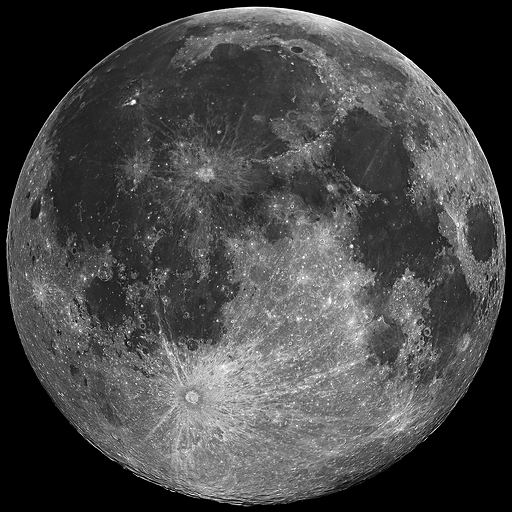
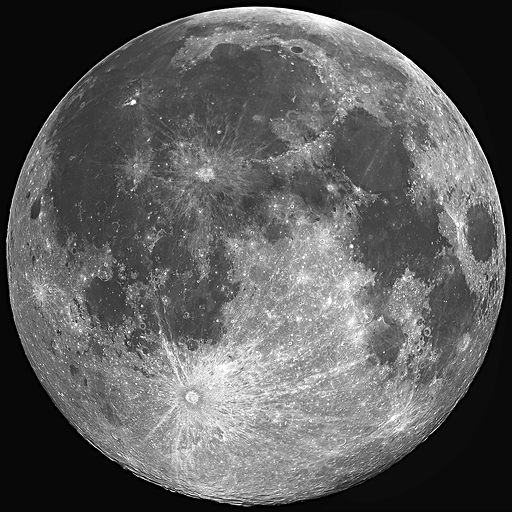
fix(consola): sube brillo de la textura lunar
La foto real tiene albedo bajo (~12%) y a multiply salia mas oscura de
lo que se queria ver. Se levanta el piso de las sombras antes de
reducir a 512 y se le da un empujon de brillo/contraste.

diff --git a/dashboard/src/assets/README.md b/dashboard/src/assets/README.md
@@ -15,3 +15,9 @@ pequeño realce de contraste/nitidez para que las crestas se lean a tamaño de i
 (~40-80 px). El color (tonos cálidos de sombra/luz) no viene de la foto: lo sigue
 poniendo el degradado de `MoonGlyph` por debajo, con la foto en `mix-blend-mode:
 multiply` encima sólo para el relieve.
+
+El albedo real de la Luna es bajo (~12%), así que la foto sin retocar multiplicaba
+el degradado a un resultado más oscuro de lo que se quería ver en la consola. Antes
+de reducir a 512 se le sube el piso de las sombras (los negros pasan a ~18/255 en vez
+de 0) y un empujón de brillo/contraste, para que ni el mar más oscuro llegue a
+multiplicar casi a cero.
